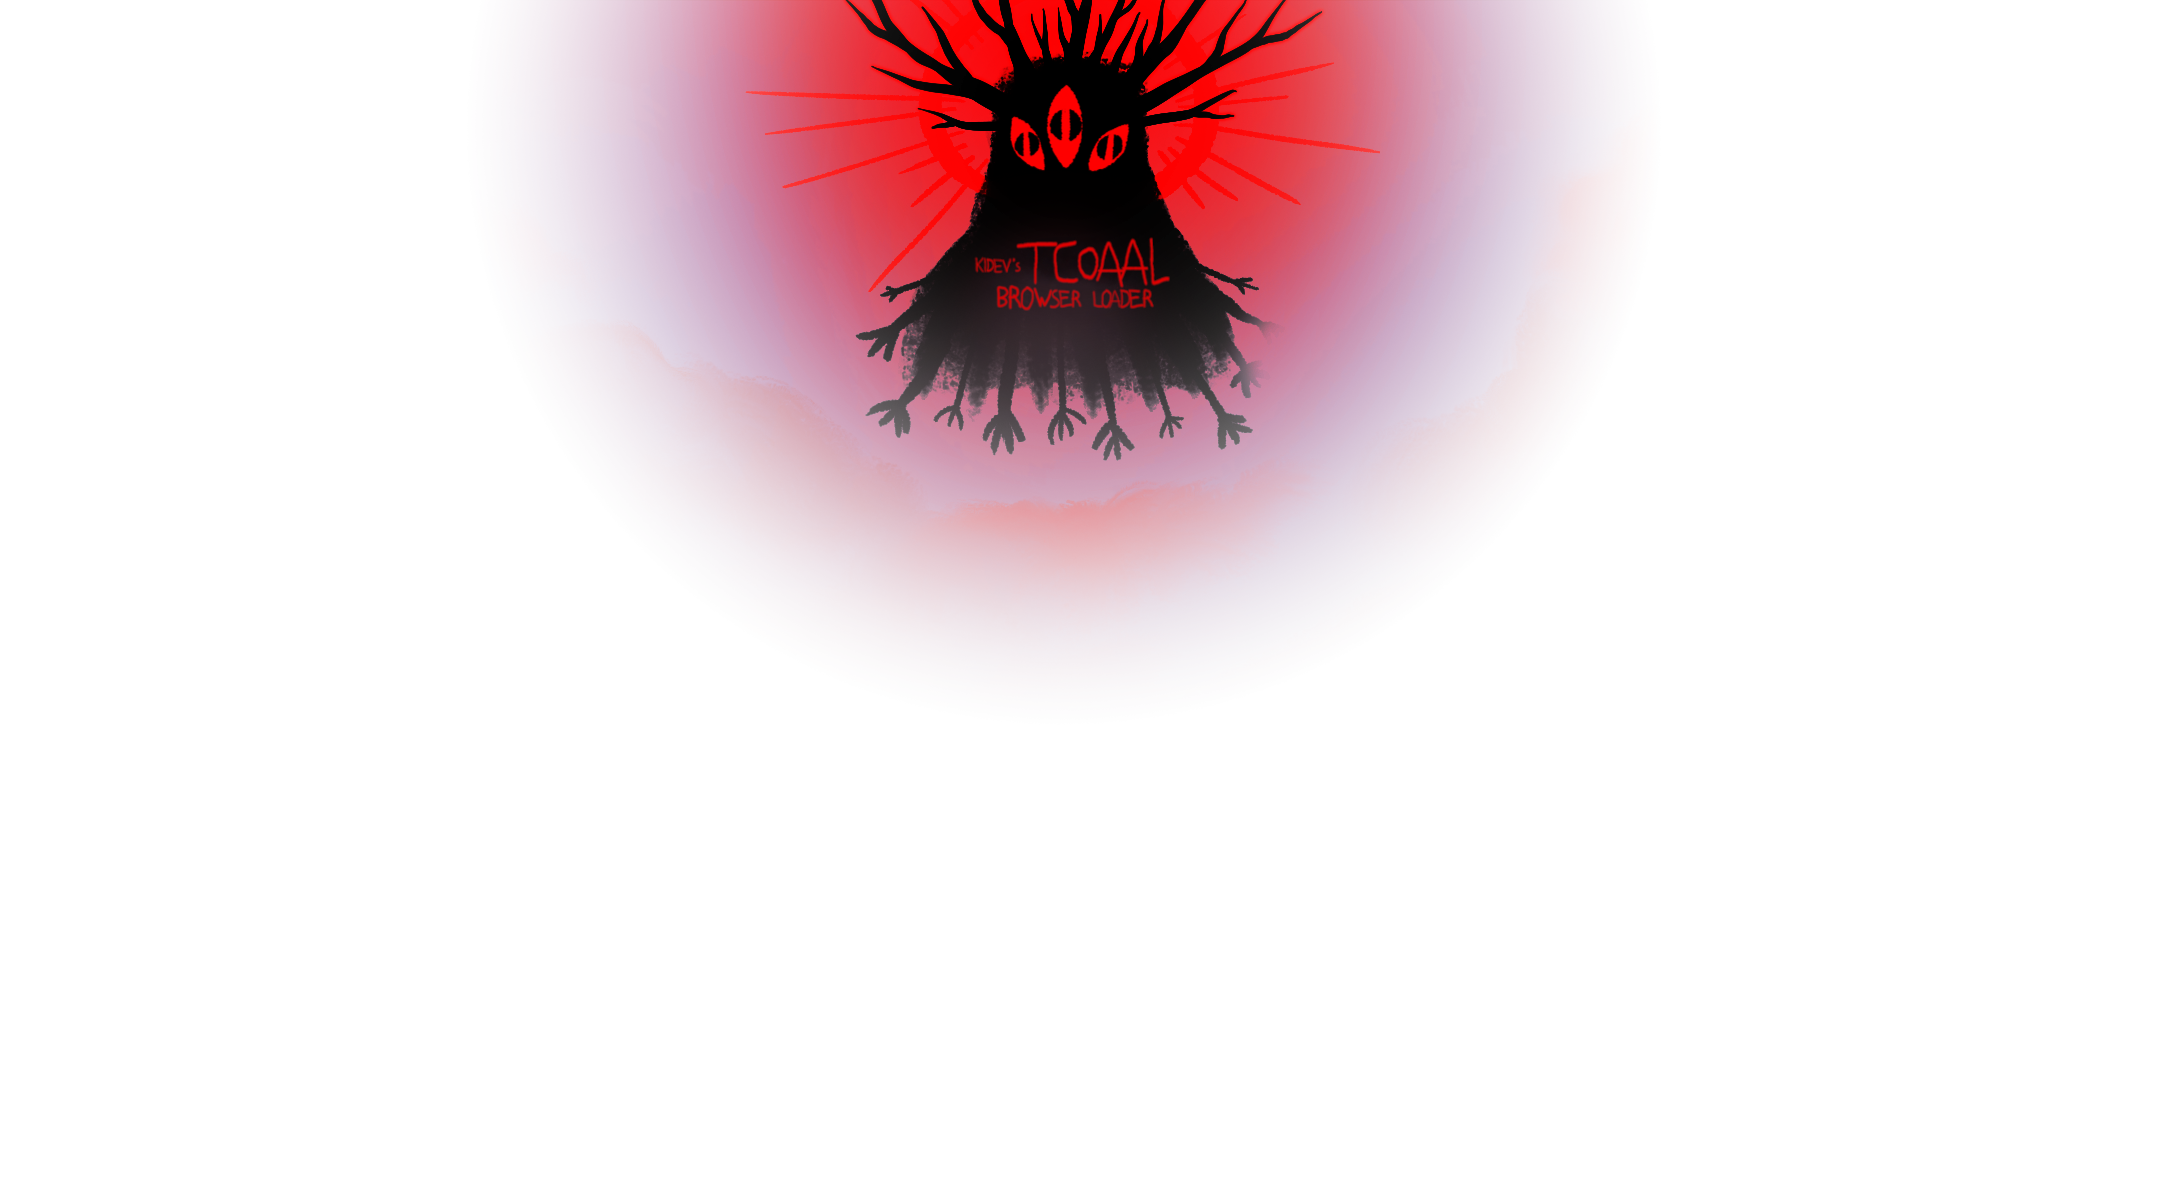
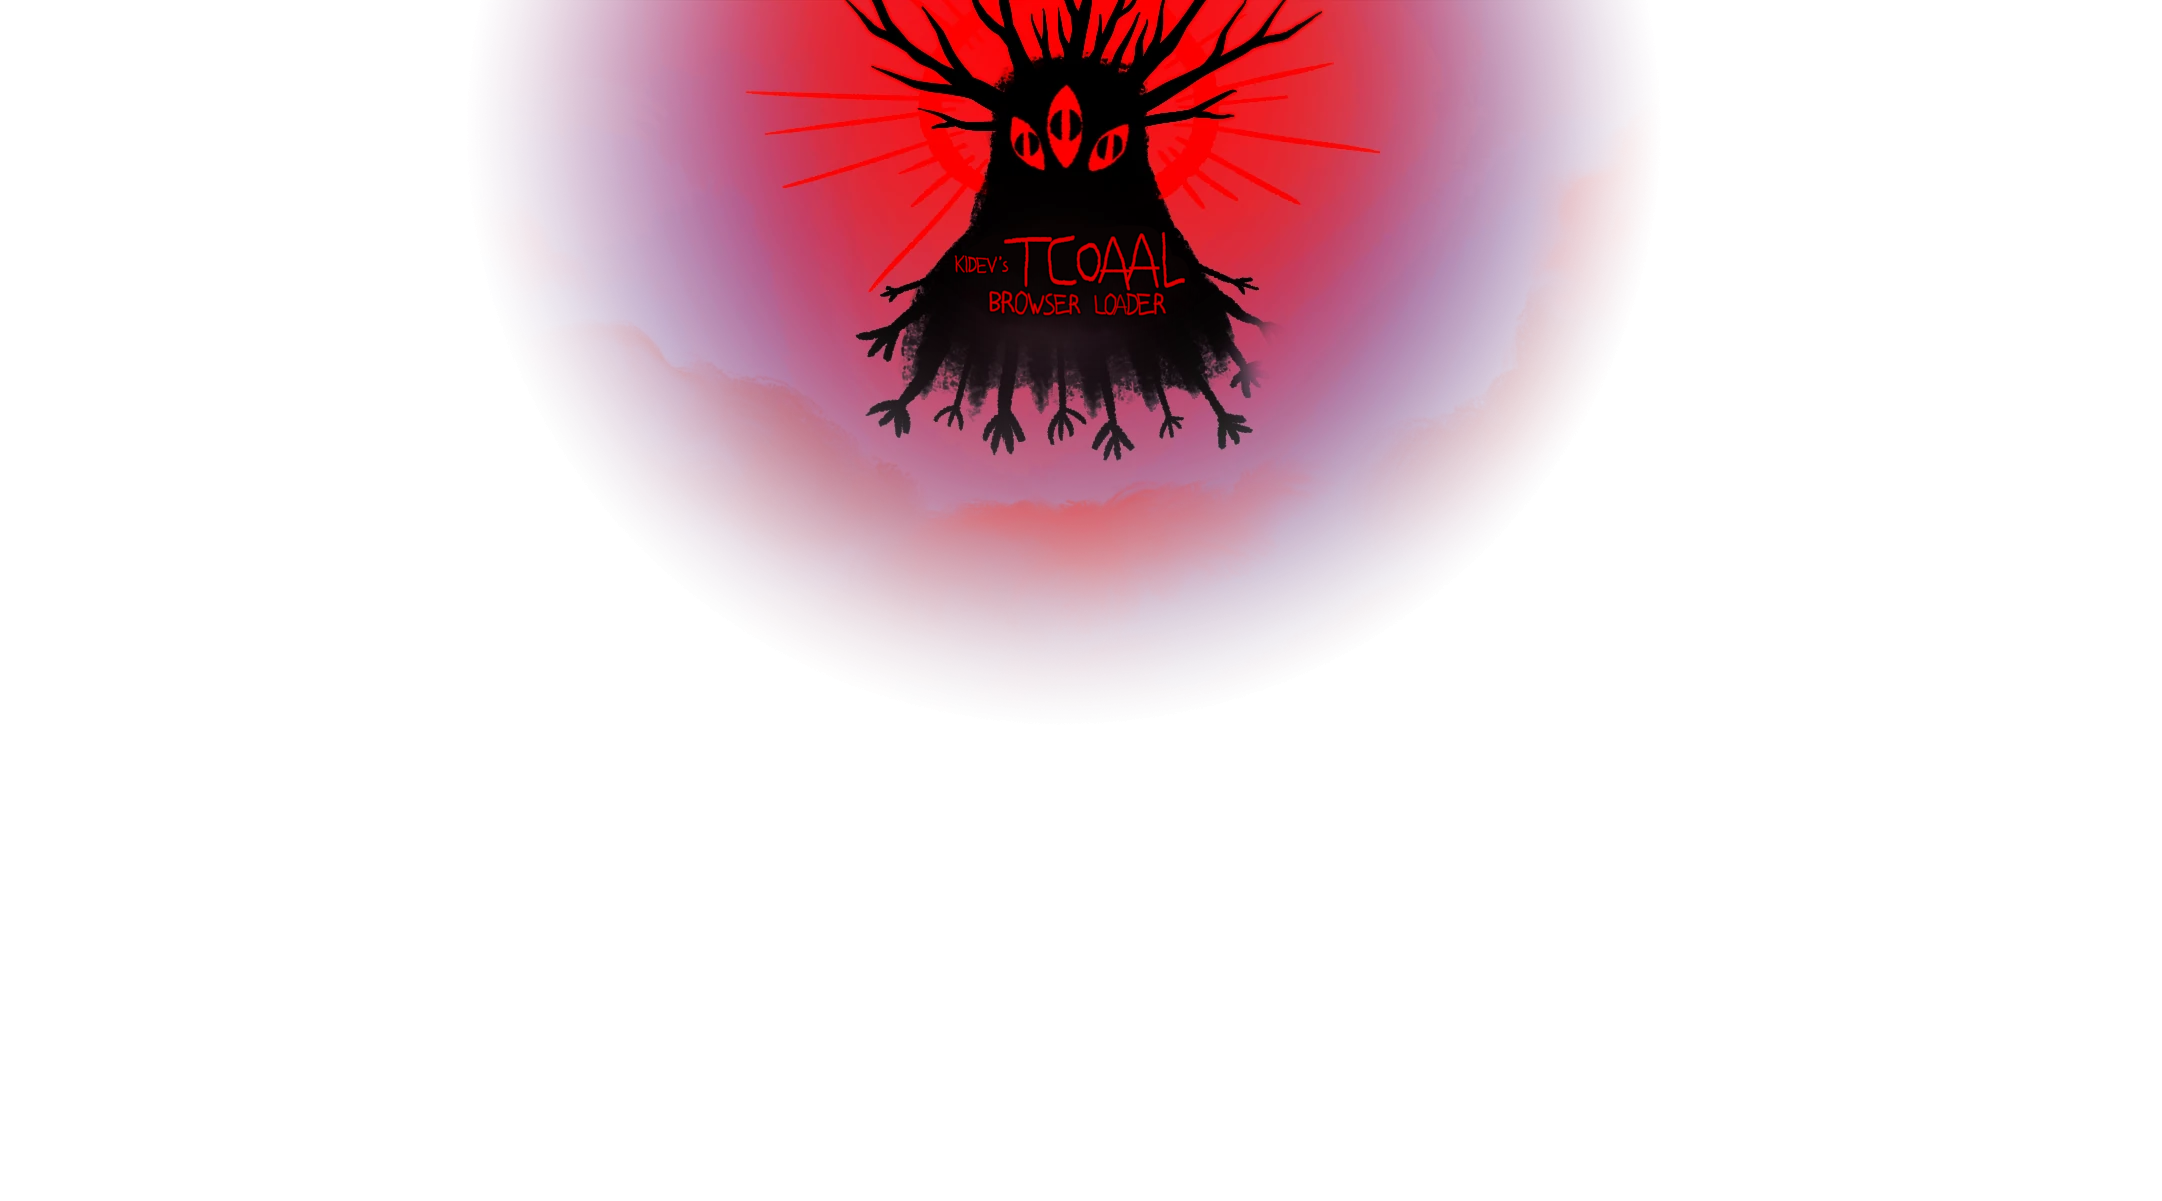
Improve performance

Changed region(s): [[0.2479, 0.0, 0.7438, 0.5237], [0.4339, 0.0616, 0.5268, 0.1232]]

diff --git a/app/loader.html b/app/loader.html
@@ -35,7 +35,7 @@
     <meta name="apple-mobile-web-app-title" content="TCOAAL" />
     <meta name="apple-mobile-web-app-capable" content="yes" />
     <meta name="mobile-web-app-capable" content="yes" />
-    <link rel="canonical" href="https://tcoaal.app/" />
+    <link rel="canonical" href="https://tcoaal.app/loader.html" />
     <link rel="manifest" href="/manifest.webmanifest" />
 
     <!-- Open Graph -->